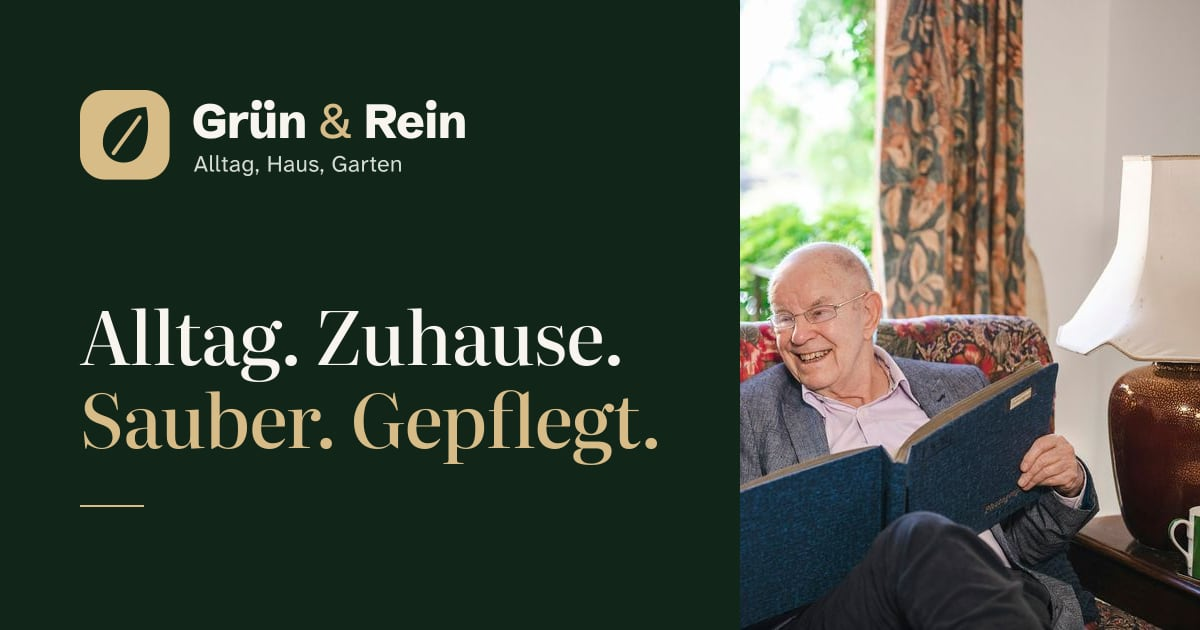
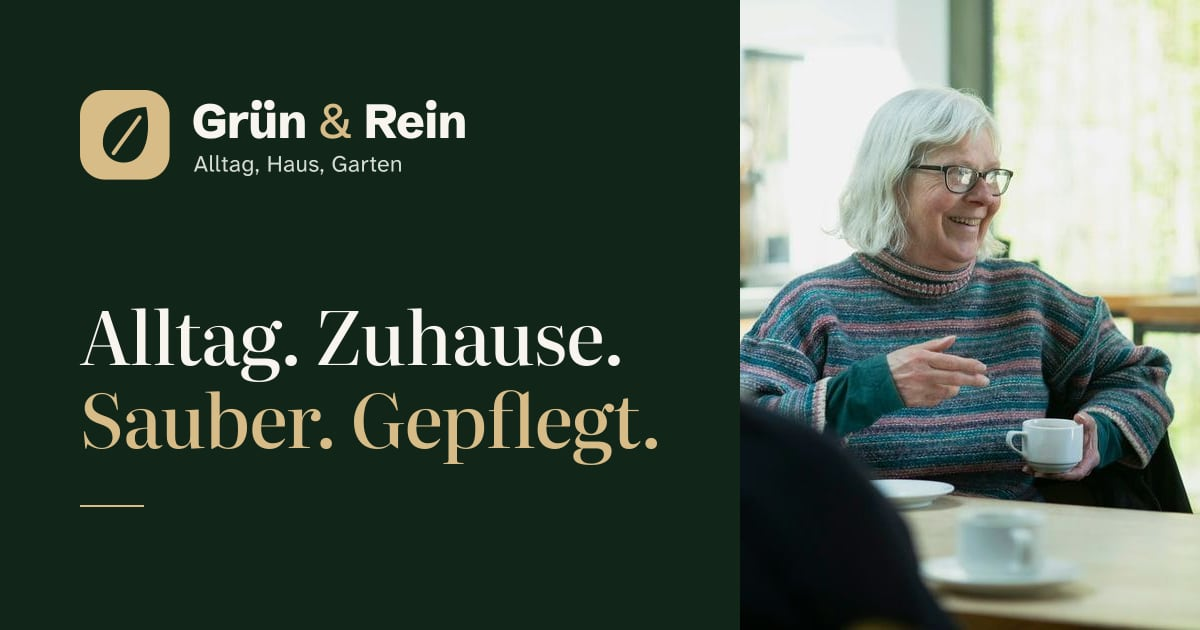
Vorschaubild beim Teilen mit dem neuen Foto vom Einstieg

diff --git a/src/bilder/QUELLEN.md b/src/bilder/QUELLEN.md
@@ -6,7 +6,6 @@ ohne Namensnennung. Sie sind ein Übergang, bis eigene Fotos von Grün & Rein vo
 | Datei | Unsplash |
 |---|---|
 | einstieg-kaffee.jpg | https://unsplash.com/photos/wLXJ1Q-_S88 |
-| gespraech-fotoalbum.jpg (nur noch für das Vorschaubild beim Teilen, scripts/logo.mjs) | https://unsplash.com/photos/rQJ3xo-0WYE |
 | haende.jpg | https://unsplash.com/photos/R1H2Y7T7m3I |
 | alltag-park.jpg | https://unsplash.com/photos/PHwjAQKOpiw |
 | hauswirtschaft-kueche.jpg | https://unsplash.com/photos/W9Vu-Cy2vtg |
